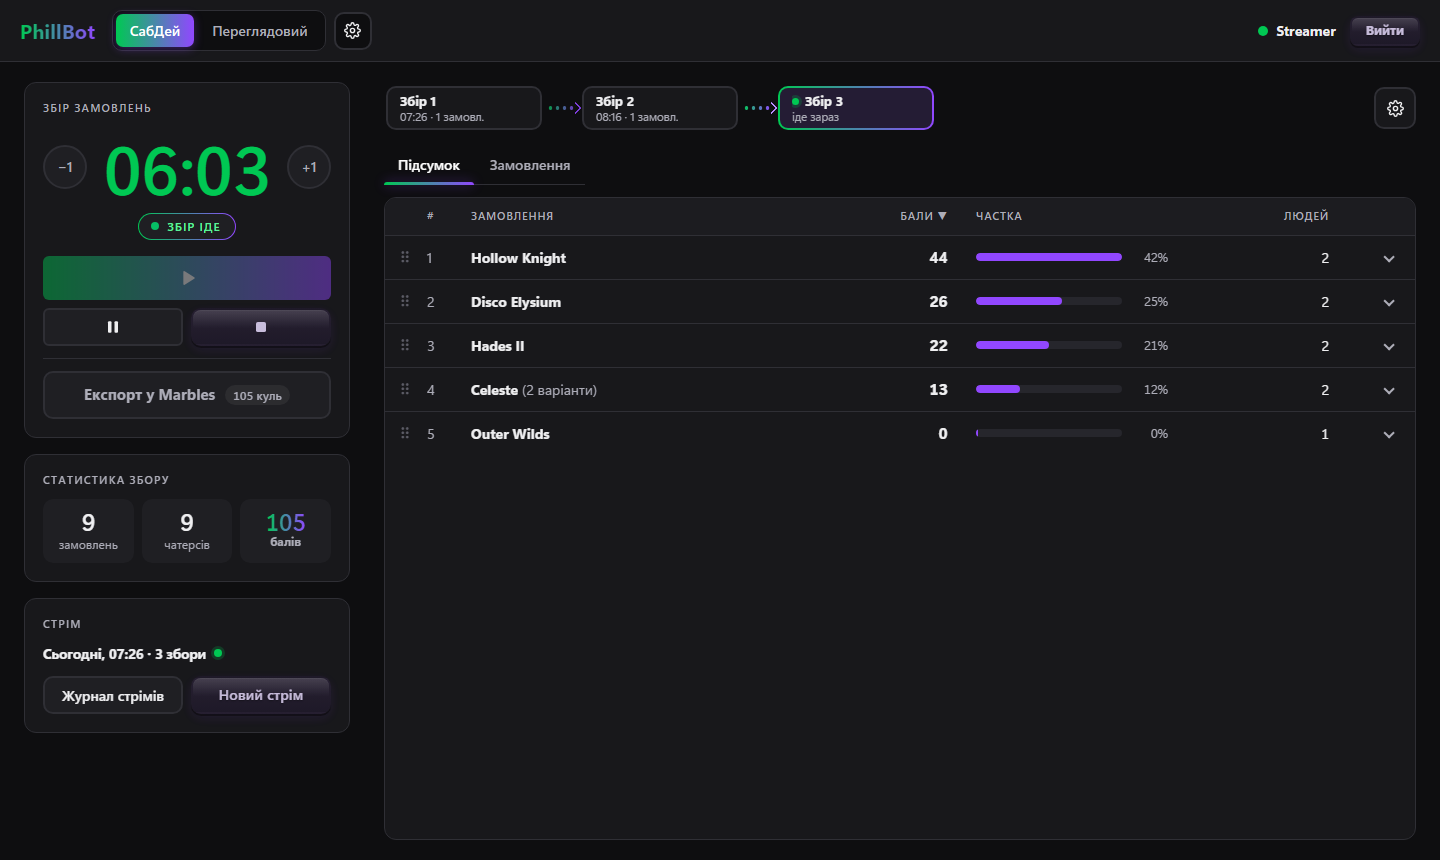
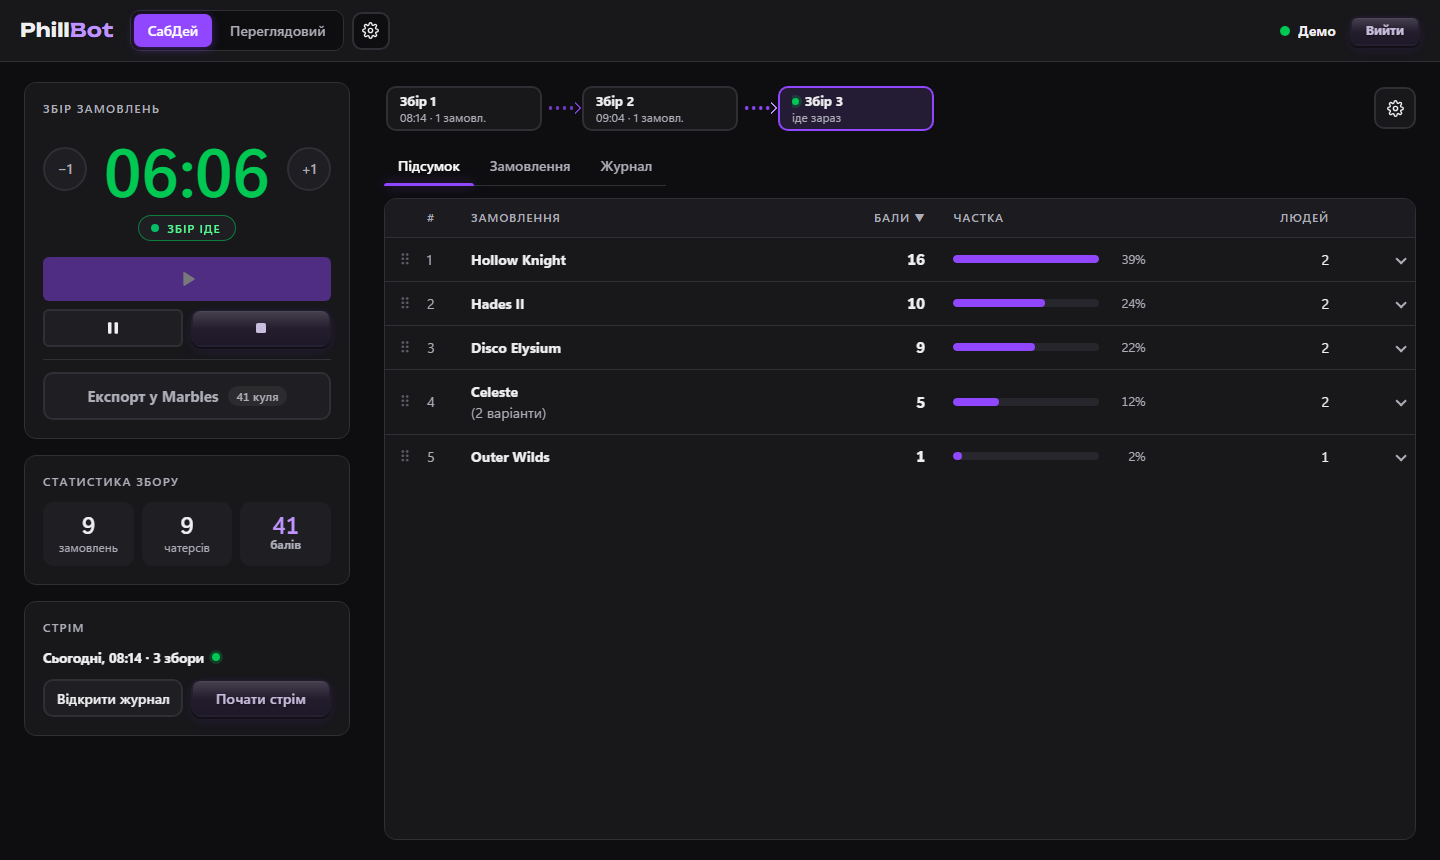
README: web version, current points rules, viewer page; fresh screenshots
Also: viewer page opens a tab from the URL hash (#history, #auction).

diff --git a/app/web/viewer.html b/app/web/viewer.html
@@ -247,6 +247,9 @@
     es.addEventListener("state", () => { $("live").classList.add("on"); $("liveTxt").textContent = "Наживо"; load(); });
     es.onerror = () => { $("live").classList.remove("on"); $("liveTxt").textContent = "Перепідключення…"; };
   }
+  // пряме посилання на вкладку: …#history, #auction, #subday
+  const hashView = () => { const v = location.hash.slice(1); if(["subday", "auction", "history"].includes(v)){ chosen = true; setView(v); } };
+  window.addEventListener("hashchange", hashView); hashView();
   load(); connect();
   setInterval(load, 15000); // підстраховка, якщо потік подій мовчить
 })();

diff --git a/README.md b/README.md
@@ -1,51 +1,91 @@
 # PhillBot
 
-Програма для Windows, що допомагає вести інтерактив на Twitch-стрімі: глядачі замовляють ігри за бали каналу (**СабДей**),
+Інструмент для інтерактиву на Twitch-стрімі: глядачі замовляють ігри за бали каналу (**СабДей**),
 роблять ставки на аукціоні з колесом (**Переглядовий**) і можуть підтримати донатом через **Donatello**.
-Таймер для стріму виводиться віджетом в **OBS**.
+Таймер для стріму виводиться віджетом в **OBS**, а глядачі бачать перебіг на окремій сторінці без входу.
+
+Працює в браузері: **[phillbot.fly.dev](https://phillbot.fly.dev)** — вхід через Twitch.
+Подивитися без входу: **[phillbot.fly.dev/demo](https://phillbot.fly.dev/demo)** (дані вигадані, нічого не зберігається).
 
 ![СабДей](docs/screenshots/subday.png)
 
 ## Можливості
 
-**СабДей — замовлення ігор**
-- Глядачі замовляють гру нагородою за бали каналу; таймер збору 10 хв (±1 хв, пауза).
-- Бали: (множник тіру × місяці) / 3 з округленням угору (1 міс → 1, 4 → 2, 30 → 10); +1 бал за кожні 2 подаровані сабки за 30 днів (остача не рахується).
-- Кілька замовлень від одного глядача — на вибір: перше, останнє або бали діляться між ними.
-- Схожі замовлення зливаються перетягуванням рядка.
-- Експорт у Marbles on Stream, вибір переможця, гра з таймером і голосування в чаті: «1» — продовжити, «2» — дроп.
+### СабДей — замовлення ігор
+
+- Глядач замовляє гру нагородою за бали каналу (зі словом «СабДей» у назві); збір триває 10 хв (±1 хв, пауза).
+- **Бали:**
+  - підписка — (множник тіру × місяці) / 3 з округленням угору: 1 міс → 1, 4 → 2, 30 → 10, 35 → 12 (множники за замовчуванням 1 / 2 / 3);
+  - подаровані сабки за останні 30 днів — +1 бал за кожні 2, остача не рахується (2 → 1, 5 → 2);
+  - без підписки — скільки задано в налаштуваннях (за замовчуванням 0).
+- Кілька замовлень від одного глядача: рахується перше, останнє або бали діляться між ними.
+- Схожі замовлення зливаються перетягуванням рядка, будь-яке можна приховати чи перейменувати.
+- Експорт у Marbles on Stream, вибір переможця.
+- Кожен старт — новий збір; збори одного стріму й попередні стріми — у **журналі**.
+
+![Журнал стрімів](docs/screenshots/streams.png)
+
+### Гра переможця і голосування
+
+- Таймер гри (за замовчуванням 40 хв) і звук, коли час вийшов (вбудований або свій за посиланням).
+- Голосування в чаті: «1» — продовжити гру, «2» — дроп (за замовчуванням 3 хв).
+- Голосують лише підписники; на вибір — рахується останній голос глядача або тільки перший.
 
 ![Гра переможця і голосування](docs/screenshots/game.png)
 
-**Переглядовий — аукціон**
+### Переглядовий — аукціон
+
 - Ставки — до 5 нагород за бали каналу (за замовчуванням 1000 / 5000 / 10000); текст ставки — назва лота.
 - Однакові назви додаються до лота, схожі — пропозиція «Додати до існуючого».
-- Лоти можна зливати, приховувати, редагувати.
-- Колесо через random.org: «на вибування» (крутить саме до переможця) або «одразу результат».
-  Шанс перемогти завжди дорівнює частці суми лота.
+- Лоти можна зливати, приховувати, редагувати; останнє злиття можна скасувати.
+- Колесо через random.org: «на вибування» (крутить до переможця) або «одразу результат».
+  Шанс перемогти дорівнює частці суми лота; міні-колесо видно поруч зі ставками.
 
 ![Аукціон](docs/screenshots/auction.png)
 ![Колесо](docs/screenshots/wheel.png)
 
-**Донати Donatello**
-- Донат під час збору СабДею стає замовленням (за замовчуванням 30 грн = 1 бал), під час аукціону — ставкою (10 грн = 1000 балів).
-- Донати приходять миттєво через колбек Donatello; публічну адресу дає вбудований ngrok.
+### Донати Donatello
+
+- Донат під час збору СабДею стає замовленням (за замовчуванням 30 грн = 1 бал),
+  під час аукціону — ставкою (10 грн = 1000 балів).
+- Донати приходять миттєво через колбек: посилання для Donatello → API → Колбеки — у налаштуваннях.
 
 ![Налаштування](docs/screenshots/settings.png)
 
-**Віджет для OBS** — один таймер для збору, гри, голосування й аукціону (640×200).
+### Віджет для OBS
+
+Один таймер для збору, гри, голосування й аукціону (640×200), під час голосування — «перетягування канату» 1 / 2.
+Посилання — у загальних налаштуваннях (шестерня в шапці).
 
 ![Віджет OBS](docs/screenshots/widget.png)
 
+### Сторінка для глядачів
+
+Одне посилання без входу: поточний СабДей (таймер, замовлення, бали) або Переглядовий (лоти з шансами),
+голосування наживо й **історія** — минулі збори й аукціони за датами з переможцями.
+У посиланні — випадковий код, а не нік, тож чужі сторінки не знайти перебором.
+Пряме посилання на вкладку: `…#history`, `…#auction`.
+
+![Сторінка для глядачів](docs/screenshots/viewer.png)
+
+### Дані й приватність
+
+- Усе зберігається на сервері: збори, ставки, журнал і таймери переживають перезапуск.
+- Експорт за весь час: СабДей .csv, аукціон .csv або все разом .zip.
+- «Видалити мої дані» в налаштуваннях стирає все про канал; якщо доступ Twitch відкликано і стрімер не входить 30 днів — дані видаляються самі.
+  Деталі — на сторінках [Конфіденційність](https://phillbot.fly.dev/privacy) і [Умови](https://phillbot.fly.dev/terms).
+
 ## Як почати
 
-1. Завантажте `PhillBot.exe` з [Releases](../../releases) і покладіть у свою теку (не в архів чи «Завантаження»).
-2. Створіть застосунок на [dev.twitch.tv/console/apps](https://dev.twitch.tv/console/apps): Redirect URL `http://localhost`,
-   Client Type **Public**. Вставте Client ID у програму й увійдіть під акаунтом каналу.
-3. Створіть нагороди за бали каналу з обов'язковим текстом: для СабДею (зі словом «СабДей» у назві) і для аукціону.
-4. Шестерня в шапці → скопіюйте адресу віджета і додайте в OBS як «Браузер» 640×200.
-5. За бажанням — Donatello: токен ngrok і ключ колбека в налаштуваннях, а посилання з програми — у Donatello → API → Колбеки.
+1. Увійдіть на [phillbot.fly.dev](https://phillbot.fly.dev) акаунтом каналу. Доступ — за списком: якщо вас немає, напишіть адміністратору.
+2. Створіть нагороди за бали каналу з обов'язковим текстом: для СабДею (зі словом «СабДей» у назві) і для аукціону.
+3. Шестерня в шапці → скопіюйте посилання віджета й додайте в OBS як «Браузер» 640×200.
+4. Там само — посилання «Сторінка для глядачів»: його можна закріпити в чаті чи панелі каналу.
+5. За бажанням — Donatello: посилання колбека з налаштувань у Donatello → API → Колбеки.
 
-Потрібно: Windows 10/11 (WebView2), для СабДею — Marbles on Stream (Steam).
-Налаштування, вхід і історія зберігаються поруч з exe — передавайте іншим лише сам `PhillBot.exe`.
-X.Y.Z` → GitHub Actions збирає `PhillBot.exe` і публікує його в Releases.
+Для СабДею потрібен Marbles on Stream (Steam).
+
+## Власний сервер
+
+Сервер — Go (тег збірки `server`) з базою SQLite або PostgreSQL; образ — `app/Dockerfile`.
+Як розгорнути (Fly.io або інший хостинг, змінні оточення, застосунок Twitch) — [docs/DEPLOY.md](docs/DEPLOY.md).
